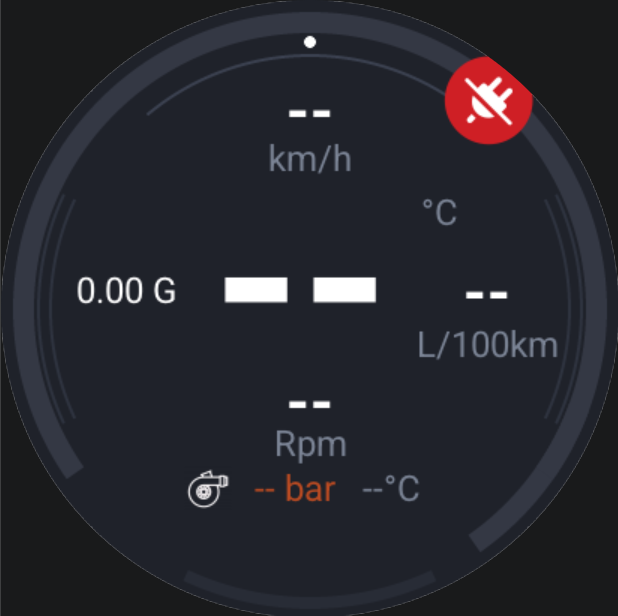
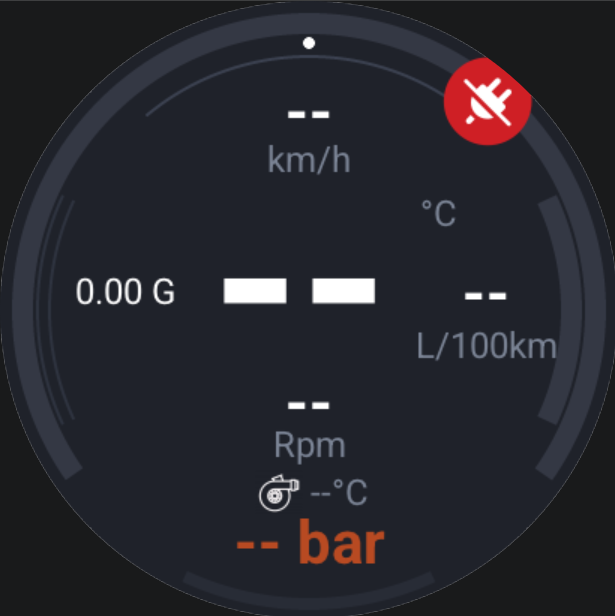
design update + consumption debounce

diff --git a/lib/hud_ui/screens/dashboard_gen.c b/lib/hud_ui/screens/dashboard_gen.c
@@ -115,31 +115,30 @@ lv_obj_t * dashboard_create(void)
 
         lv_obj_add_style(lv_obj_0, &style_dark, 0);
         lv_obj_t * lv_arc_0 = lv_arc_create(lv_obj_0);
-        lv_arc_set_bg_start_angle(lv_arc_0, 20);
-        lv_arc_set_bg_end_angle(lv_arc_0, 55);
+        lv_arc_set_bg_start_angle(lv_arc_0, 145);
+        lv_arc_set_bg_end_angle(lv_arc_0, 35);
         lv_obj_set_align(lv_arc_0, LV_ALIGN_CENTER);
         lv_obj_set_width(lv_arc_0, 396);
         lv_obj_set_height(lv_arc_0, 396);
         lv_arc_set_min_value(lv_arc_0, 0);
-        lv_arc_set_max_value(lv_arc_0, 35);
-        lv_arc_bind_value(lv_arc_0, &fuel_consumption);
+        lv_arc_set_max_value(lv_arc_0, 5000);
+        lv_arc_bind_value(lv_arc_0, &engine_rpm);
         lv_obj_set_flag(lv_arc_0, LV_OBJ_FLAG_CLICKABLE, false);
-        lv_obj_add_style(lv_arc_0, &style_consumption_track, 0);
-        lv_obj_add_style(lv_arc_0, &style_consumption_indicator, LV_PART_INDICATOR);
+        lv_obj_add_style(lv_arc_0, &style_rpm_track, 0);
+        lv_obj_add_style(lv_arc_0, &style_rpm_indicator, LV_PART_INDICATOR);
         lv_obj_add_style(lv_arc_0, &style_knob, LV_PART_KNOB);
 
         lv_obj_t * lv_arc_1 = lv_arc_create(lv_obj_0);
-        lv_arc_set_bg_start_angle(lv_arc_1, 145);
-        lv_arc_set_bg_end_angle(lv_arc_1, 35);
+        lv_arc_set_bg_start_angle(lv_arc_1, 155);
+        lv_arc_set_bg_end_angle(lv_arc_1, 205);
+        lv_arc_set_start_angle(lv_arc_1, 0);
+        lv_arc_set_end_angle(lv_arc_1, 0);
         lv_obj_set_align(lv_arc_1, LV_ALIGN_CENTER);
-        lv_obj_set_width(lv_arc_1, 396);
-        lv_obj_set_height(lv_arc_1, 396);
-        lv_arc_set_min_value(lv_arc_1, 0);
-        lv_arc_set_max_value(lv_arc_1, 5000);
-        lv_arc_bind_value(lv_arc_1, &engine_rpm);
+        lv_obj_set_width(lv_arc_1, 364);
+        lv_obj_set_height(lv_arc_1, 364);
         lv_obj_set_flag(lv_arc_1, LV_OBJ_FLAG_CLICKABLE, false);
-        lv_obj_add_style(lv_arc_1, &style_rpm_track, 0);
-        lv_obj_add_style(lv_arc_1, &style_rpm_indicator, LV_PART_INDICATOR);
+        lv_obj_add_style(lv_arc_1, &style_thin_frame, 0);
+        lv_obj_add_style(lv_arc_1, &style_no_indicator, LV_PART_INDICATOR);
         lv_obj_add_style(lv_arc_1, &style_knob, LV_PART_KNOB);
 
         lv_obj_t * lv_arc_2 = lv_arc_create(lv_obj_0);
@@ -148,83 +147,60 @@ lv_obj_t * dashboard_create(void)
         lv_arc_set_start_angle(lv_arc_2, 0);
         lv_arc_set_end_angle(lv_arc_2, 0);
         lv_obj_set_align(lv_arc_2, LV_ALIGN_CENTER);
-        lv_obj_set_width(lv_arc_2, 364);
-        lv_obj_set_height(lv_arc_2, 364);
+        lv_obj_set_width(lv_arc_2, 348);
+        lv_obj_set_height(lv_arc_2, 348);
         lv_obj_set_flag(lv_arc_2, LV_OBJ_FLAG_CLICKABLE, false);
         lv_obj_add_style(lv_arc_2, &style_thin_frame, 0);
         lv_obj_add_style(lv_arc_2, &style_no_indicator, LV_PART_INDICATOR);
         lv_obj_add_style(lv_arc_2, &style_knob, LV_PART_KNOB);
 
         lv_obj_t * lv_arc_3 = lv_arc_create(lv_obj_0);
-        lv_arc_set_bg_start_angle(lv_arc_3, 155);
-        lv_arc_set_bg_end_angle(lv_arc_3, 205);
+        lv_arc_set_bg_start_angle(lv_arc_3, 335);
+        lv_arc_set_bg_end_angle(lv_arc_3, 25);
         lv_arc_set_start_angle(lv_arc_3, 0);
         lv_arc_set_end_angle(lv_arc_3, 0);
         lv_obj_set_align(lv_arc_3, LV_ALIGN_CENTER);
-        lv_obj_set_width(lv_arc_3, 348);
-        lv_obj_set_height(lv_arc_3, 348);
+        lv_obj_set_width(lv_arc_3, 364);
+        lv_obj_set_height(lv_arc_3, 364);
         lv_obj_set_flag(lv_arc_3, LV_OBJ_FLAG_CLICKABLE, false);
-        lv_obj_add_style(lv_arc_3, &style_thin_frame, 0);
-        lv_obj_add_style(lv_arc_3, &style_no_indicator, LV_PART_INDICATOR);
+        lv_arc_set_min_value(lv_arc_3, 0);
+        lv_arc_set_max_value(lv_arc_3, 35);
+        lv_arc_bind_value(lv_arc_3, &fuel_consumption);
+        lv_obj_add_style(lv_arc_3, &style_consumption_track, 0);
+        lv_obj_add_style(lv_arc_3, &style_consumption_indicator, LV_PART_INDICATOR);
         lv_obj_add_style(lv_arc_3, &style_knob, LV_PART_KNOB);
 
         lv_obj_t * lv_arc_4 = lv_arc_create(lv_obj_0);
-        lv_arc_set_bg_start_angle(lv_arc_4, 335);
-        lv_arc_set_bg_end_angle(lv_arc_4, 25);
+        lv_arc_set_bg_start_angle(lv_arc_4, 230);
+        lv_arc_set_bg_end_angle(lv_arc_4, 310);
         lv_arc_set_start_angle(lv_arc_4, 0);
         lv_arc_set_end_angle(lv_arc_4, 0);
         lv_obj_set_align(lv_arc_4, LV_ALIGN_CENTER);
-        lv_obj_set_width(lv_arc_4, 364);
-        lv_obj_set_height(lv_arc_4, 364);
+        lv_obj_set_width(lv_arc_4, 340);
+        lv_obj_set_height(lv_arc_4, 340);
         lv_obj_set_flag(lv_arc_4, LV_OBJ_FLAG_CLICKABLE, false);
-        lv_obj_add_style(lv_arc_4, &style_thin_frame, 0);
+        lv_obj_add_style(lv_arc_4, &style_top_accent, 0);
         lv_obj_add_style(lv_arc_4, &style_no_indicator, LV_PART_INDICATOR);
         lv_obj_add_style(lv_arc_4, &style_knob, LV_PART_KNOB);
-
-        lv_obj_t * lv_arc_5 = lv_arc_create(lv_obj_0);
-        lv_arc_set_bg_start_angle(lv_arc_5, 335);
-        lv_arc_set_bg_end_angle(lv_arc_5, 25);
-        lv_arc_set_start_angle(lv_arc_5, 0);
-        lv_arc_set_end_angle(lv_arc_5, 0);
-        lv_obj_set_align(lv_arc_5, LV_ALIGN_CENTER);
-        lv_obj_set_width(lv_arc_5, 348);
-        lv_obj_set_height(lv_arc_5, 348);
-        lv_obj_set_flag(lv_arc_5, LV_OBJ_FLAG_CLICKABLE, false);
-        lv_obj_add_style(lv_arc_5, &style_thin_frame, 0);
-        lv_obj_add_style(lv_arc_5, &style_no_indicator, LV_PART_INDICATOR);
-        lv_obj_add_style(lv_arc_5, &style_knob, LV_PART_KNOB);
-
-        lv_obj_t * lv_arc_6 = lv_arc_create(lv_obj_0);
-        lv_arc_set_bg_start_angle(lv_arc_6, 230);
-        lv_arc_set_bg_end_angle(lv_arc_6, 310);
-        lv_arc_set_start_angle(lv_arc_6, 0);
-        lv_arc_set_end_angle(lv_arc_6, 0);
-        lv_obj_set_align(lv_arc_6, LV_ALIGN_CENTER);
-        lv_obj_set_width(lv_arc_6, 340);
-        lv_obj_set_height(lv_arc_6, 340);
-        lv_obj_set_flag(lv_arc_6, LV_OBJ_FLAG_CLICKABLE, false);
-        lv_obj_add_style(lv_arc_6, &style_top_accent, 0);
-        lv_obj_add_style(lv_arc_6, &style_no_indicator, LV_PART_INDICATOR);
-        lv_obj_add_style(lv_arc_6, &style_knob, LV_PART_KNOB);
 
         lv_obj_t * lv_obj_1 = lv_obj_create(lv_obj_0);
         lv_obj_set_align(lv_obj_1, LV_ALIGN_TOP_MID);
         lv_obj_set_y(lv_obj_1, 24);
         lv_obj_add_style(lv_obj_1, &style_dot, 0);
 
-        lv_obj_t * lv_arc_7 = lv_arc_create(lv_obj_0);
-        lv_arc_set_bg_start_angle(lv_arc_7, 65);
-        lv_arc_set_bg_end_angle(lv_arc_7, 115);
-        lv_obj_set_align(lv_arc_7, LV_ALIGN_CENTER);
-        lv_obj_set_width(lv_arc_7, 400);
-        lv_obj_set_height(lv_arc_7, 400);
-        lv_arc_set_min_value(lv_arc_7, 0);
-        lv_arc_set_max_value(lv_arc_7, 250);
-        lv_arc_bind_value(lv_arc_7, &turbo_boost);
-        lv_obj_set_flag(lv_arc_7, LV_OBJ_FLAG_CLICKABLE, false);
-        lv_obj_add_style(lv_arc_7, &style_turbo_track, 0);
-        lv_obj_add_style(lv_arc_7, &style_turbo_indicator, LV_PART_INDICATOR);
-        lv_obj_add_style(lv_arc_7, &style_knob, LV_PART_KNOB);
+        lv_obj_t * lv_arc_5 = lv_arc_create(lv_obj_0);
+        lv_arc_set_bg_start_angle(lv_arc_5, 65);
+        lv_arc_set_bg_end_angle(lv_arc_5, 115);
+        lv_obj_set_align(lv_arc_5, LV_ALIGN_CENTER);
+        lv_obj_set_width(lv_arc_5, 400);
+        lv_obj_set_height(lv_arc_5, 400);
+        lv_arc_set_min_value(lv_arc_5, 0);
+        lv_arc_set_max_value(lv_arc_5, 250);
+        lv_arc_bind_value(lv_arc_5, &turbo_boost);
+        lv_obj_set_flag(lv_arc_5, LV_OBJ_FLAG_CLICKABLE, false);
+        lv_obj_add_style(lv_arc_5, &style_turbo_track, 0);
+        lv_obj_add_style(lv_arc_5, &style_turbo_indicator, LV_PART_INDICATOR);
+        lv_obj_add_style(lv_arc_5, &style_knob, LV_PART_KNOB);
 
         lv_obj_t * lv_label_0 = lv_label_create(lv_obj_0);
         lv_label_bind_text(lv_label_0, &speed_str, NULL);
@@ -273,22 +249,22 @@ lv_obj_t * dashboard_create(void)
         lv_obj_t * lv_image_0 = lv_image_create(lv_obj_0);
         lv_image_set_src(lv_image_0, turbo);
         lv_obj_set_align(lv_image_0, LV_ALIGN_CENTER);
-        lv_obj_set_x(lv_image_0, -68);
-        lv_obj_set_y(lv_image_0, 120);
+        lv_obj_set_x(lv_image_0, -20);
+        lv_obj_set_y(lv_image_0, 122);
 
         lv_obj_t * lv_label_6 = lv_label_create(lv_obj_0);
         lv_label_bind_text(lv_label_6, &turbo_boost_str, NULL);
         lv_obj_set_align(lv_label_6, LV_ALIGN_CENTER);
-        lv_obj_set_x(lv_label_6, -10);
-        lv_obj_set_y(lv_label_6, 120);
-        lv_obj_set_style_text_font(lv_label_6, roboto_regular_24, 0);
+        lv_obj_set_x(lv_label_6, 0);
+        lv_obj_set_y(lv_label_6, 156);
+        lv_obj_set_style_text_font(lv_label_6, roboto_bold_40, 0);
         lv_obj_set_style_text_color(lv_label_6, lv_color_hex(0xb84a22), 0);
 
         lv_obj_t * lv_label_7 = lv_label_create(lv_obj_0);
         lv_label_bind_text(lv_label_7, &intake_temp_str, NULL);
         lv_obj_set_align(lv_label_7, LV_ALIGN_CENTER);
-        lv_obj_set_x(lv_label_7, 54);
-        lv_obj_set_y(lv_label_7, 120);
+        lv_obj_set_x(lv_label_7, 20);
+        lv_obj_set_y(lv_label_7, 122);
         lv_obj_set_style_text_font(lv_label_7, roboto_regular_24, 0);
         lv_obj_set_style_text_color(lv_label_7, lv_color_hex(0x7a8394), 0);
 

diff --git a/src/main.cpp b/src/main.cpp
@@ -145,6 +145,18 @@ static float current_fuel_lph = -1.0f;
 static float latest_engine_load = 15.0f; // Typical idle load for Hyundai 1.5 CRDi
 static bool sweep_active = true;
 
+// Moving average buffer for consumption (average of last 3 readings to debounce and make readable)
+static float consumption_history[3] = {0.0f, 0.0f, 0.0f};
+static uint8_t consumption_history_count = 0;
+static uint8_t consumption_history_idx = 0;
+static bool last_was_moving = false;
+
+static inline void resetConsumptionDebounce()
+{
+  consumption_history_count = 0;
+  consumption_history_idx = 0;
+}
+
 void updateFuelConsumption();
 
 // Fuel rate calculation for Hyundai Accent 1.5 CRDi (D4FA 4-cyl 16V, Bosch EDC16)
@@ -153,6 +165,7 @@ void setDisconnectedDefaults()
   latest_rpm = 0.0f;
   latest_engine_load = 0.0f;
   current_fuel_lph = -1.0f;
+  resetConsumptionDebounce();
 
   LVGL_EXEC({
     lv_subject_set_int(&speed, 0);
@@ -205,30 +218,65 @@ void updateFuelConsumption()
     return;
 
   int spd = lv_subject_get_int(&speed);
+  bool is_moving = (spd > 3);
+
+  // If vehicle transitioned between moving and stationary, reset rolling average buffer
+  if (is_moving != last_was_moving)
+  {
+    resetConsumptionDebounce();
+    last_was_moving = is_moving;
+  }
+
+  float instant_val = 0.0f;
+  if (is_moving)
+  {
+    instant_val = (current_fuel_lph / (float)spd) * 100.0f;
+    if (instant_val > 35.0f)
+      instant_val = 35.0f;
+    if (instant_val < 0.0f)
+      instant_val = 0.0f;
+  }
+  else
+  {
+    instant_val = current_fuel_lph;
+    if (instant_val > 35.0f)
+      instant_val = 35.0f;
+    if (instant_val < 0.0f)
+      instant_val = 0.0f;
+  }
+
+  // Rolling average of the last 3 readings to debounce and stabilize the display
+  consumption_history[consumption_history_idx] = instant_val;
+  consumption_history_idx = (consumption_history_idx + 1) % 3;
+  if (consumption_history_count < 3)
+    consumption_history_count++;
+
+  float sum = 0.0f;
+  for (uint8_t i = 0; i < consumption_history_count; i++)
+  {
+    sum += consumption_history[i];
+  }
+  float avg_val = sum / (float)consumption_history_count;
+
   char buf[32];
   char val_buf[16];
   char unit_buf[16];
-  int arc_val = 0;
+  int arc_val = (int)(avg_val + 0.5f);
+  if (arc_val > 35)
+    arc_val = 35;
+  if (arc_val < 0)
+    arc_val = 0;
 
-  if (spd > 3)
+  if (is_moving)
   {
-    // In motion: calculate L/100km
-    float l_100km = (current_fuel_lph / (float)spd) * 100.0f;
-    if (l_100km > 35.0f)
-      l_100km = 35.0f; // clamp to 35.0 L/100km for gauge arc
-    arc_val = (int)(l_100km + 0.5f); // 0 to 35 for the arc
-    snprintf(buf, sizeof(buf), "%.1f L/100km", l_100km);
-    snprintf(val_buf, sizeof(val_buf), "%.1f", l_100km);
+    snprintf(buf, sizeof(buf), "%.1f L/100km", avg_val);
+    snprintf(val_buf, sizeof(val_buf), "%.1f", avg_val);
     snprintf(unit_buf, sizeof(unit_buf), "L/100km");
   }
   else
   {
-    // Stationary / Idle: display L/h
-    arc_val = (int)(current_fuel_lph + 0.5f);
-    if (arc_val > 35)
-      arc_val = 35;
-    snprintf(buf, sizeof(buf), "%.1f L/h", current_fuel_lph);
-    snprintf(val_buf, sizeof(val_buf), "%.1f", current_fuel_lph);
+    snprintf(buf, sizeof(buf), "%.1f L/h", avg_val);
+    snprintf(val_buf, sizeof(val_buf), "%.1f", avg_val);
     snprintf(unit_buf, sizeof(unit_buf), "L/h");
   }
 
